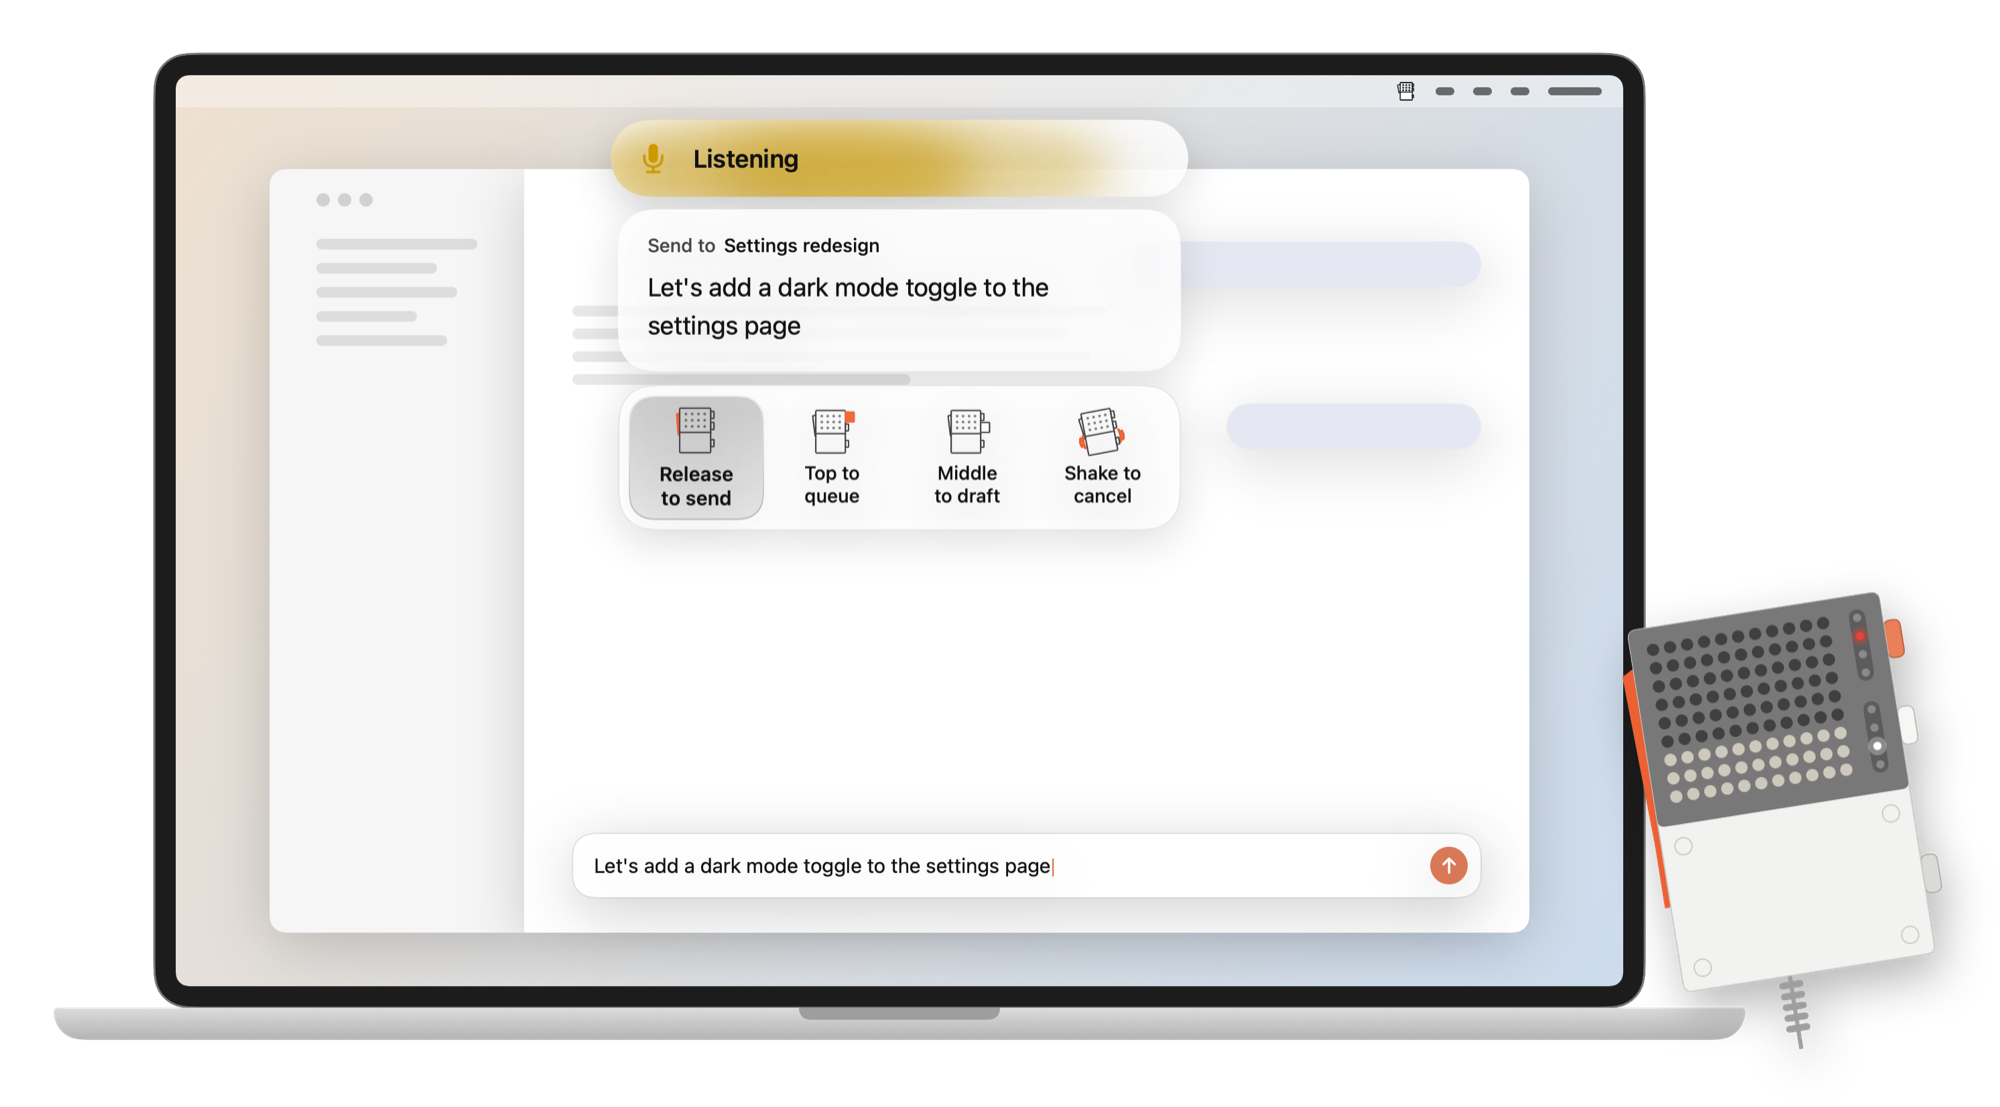
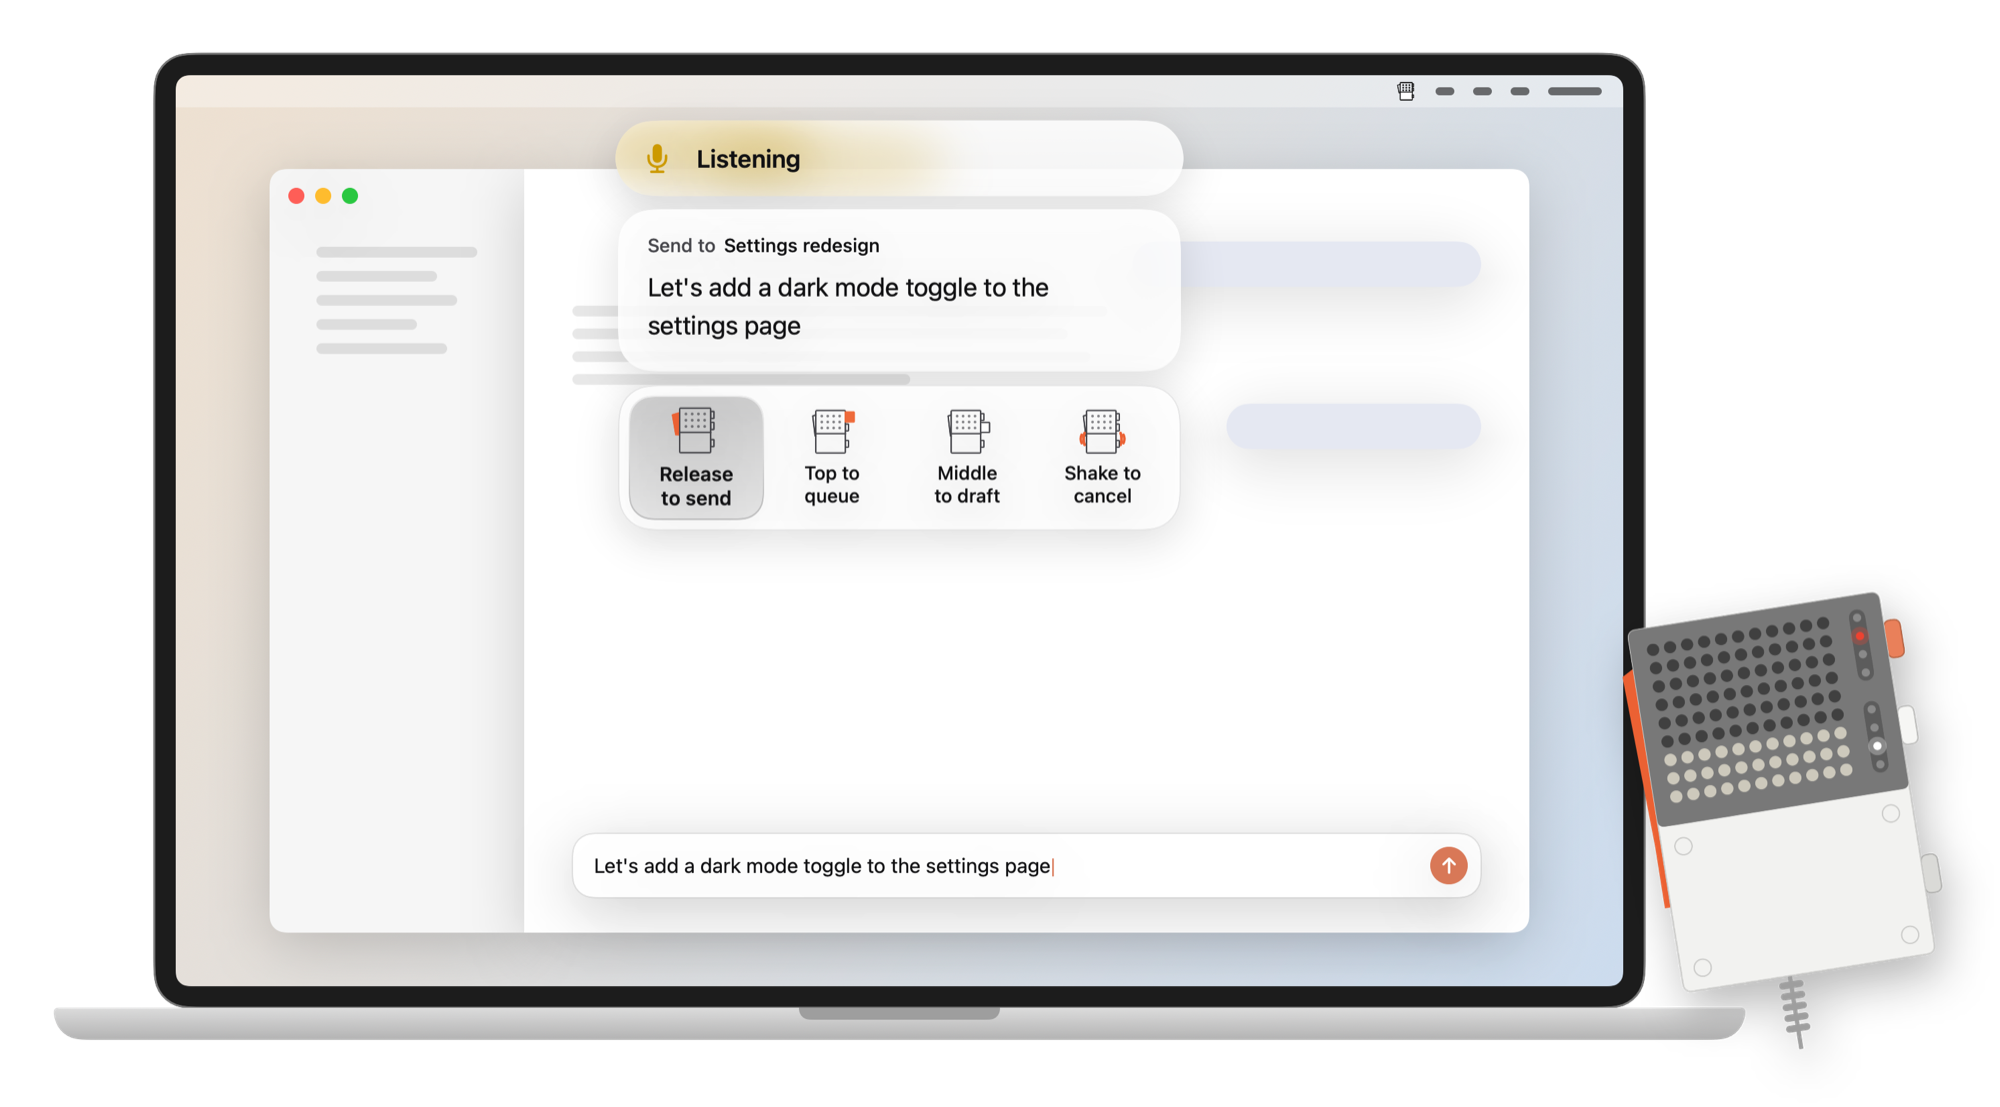
Docs mockup: lighter Listening glow, window controls where macOS puts them
The hero's Listening pill uses the app's own glow, like Queue and Draft in the
states image, at a quiet speaking level. Claude's window has the standard red,
yellow and green controls at their usual size and spot, and the composer's text
is centred with the send button.

diff --git a/tools/docs_images/DocsImages.swift b/tools/docs_images/DocsImages.swift
@@ -105,14 +105,12 @@ import SwiftUI
             // Claude's window.
             HStack(spacing: 0) {
                 VStack(alignment: .leading, spacing: 10) {
-                    HStack(spacing: 6) { ForEach(0..<3, id: \.self) { _ in Circle().fill(Color.black.opacity(0.15)).frame(width: 10, height: 10) } }
-                        .padding(.bottom, 14)
                     ForEach([0.8, 0.6, 0.7, 0.5, 0.65], id: \.self) { w in
                         Capsule().fill(Color.black.opacity(0.10)).frame(width: 150 * w, height: 8)
                     }
                     Spacer()
                 }
-                .padding(18).frame(width: 190).frame(maxHeight: .infinity, alignment: .top)
+                .padding(.horizontal, 18).padding(.top, 58).frame(width: 190).frame(maxHeight: .infinity, alignment: .top)
                 .background(Color(white: 0.965))
                 VStack(alignment: .leading, spacing: 14) {
                     Spacer().frame(height: 40)
@@ -138,6 +136,16 @@ import SwiftUI
                 .frame(maxWidth: .infinity, maxHeight: .infinity, alignment: .top)
                 .background(.white)
             }
+            // The window controls where macOS puts them: 12 pt across, 20 pt apart, centred 20 pt in from the corner.
+            .overlay(alignment: .topLeading) {
+                HStack(spacing: 8) {
+                    ForEach([Color(red: 1.0, green: 0.37, blue: 0.34), Color(red: 1.0, green: 0.74, blue: 0.18),
+                             Color(red: 0.16, green: 0.78, blue: 0.25)], id: \.self) { c in
+                        Circle().fill(c).frame(width: 12, height: 12)
+                    }
+                }
+                .padding(.leading, 14).padding(.top, 14)
+            }
             .clipShape(RoundedRectangle(cornerRadius: 12, style: .continuous))
             .shadow(color: .black.opacity(0.18), radius: 24, y: 10)
             .padding(.top, 70).padding(.horizontal, 70).padding(.bottom, 40)
@@ -149,7 +157,8 @@ import SwiftUI
 
 @MainActor func heroIsland(_ words: String) -> some View {
     let m = HUDModel(); m.shown = true; m.title = "Listening"; m.tint = .yellow; m.icon = "mic.fill"
-    m.showMeter = true; m.level = -20; m.body = words; m.footer = "Settings redesign"
+    // The same glow as the Queue and Draft pills in the states image, a little lower: yellow reads stronger.
+    m.showMeter = true; m.level = -46; m.body = words; m.footer = "Settings redesign"
     return IslandStack(model: m) { EmptyView() }
         .environment(\.onSheet, true).environment(\.colorScheme, .light)
         .foregroundStyle(Ink.of(.light).primary).font(.ui(14))
@@ -192,3 +201,4 @@ import SwiftUI
     try! NSBitmapImageRep(cgImage: img).representation(using: .png, properties: [:])!.write(to: URL(fileURLWithPath: out))
     print("hero written")
 }
+
